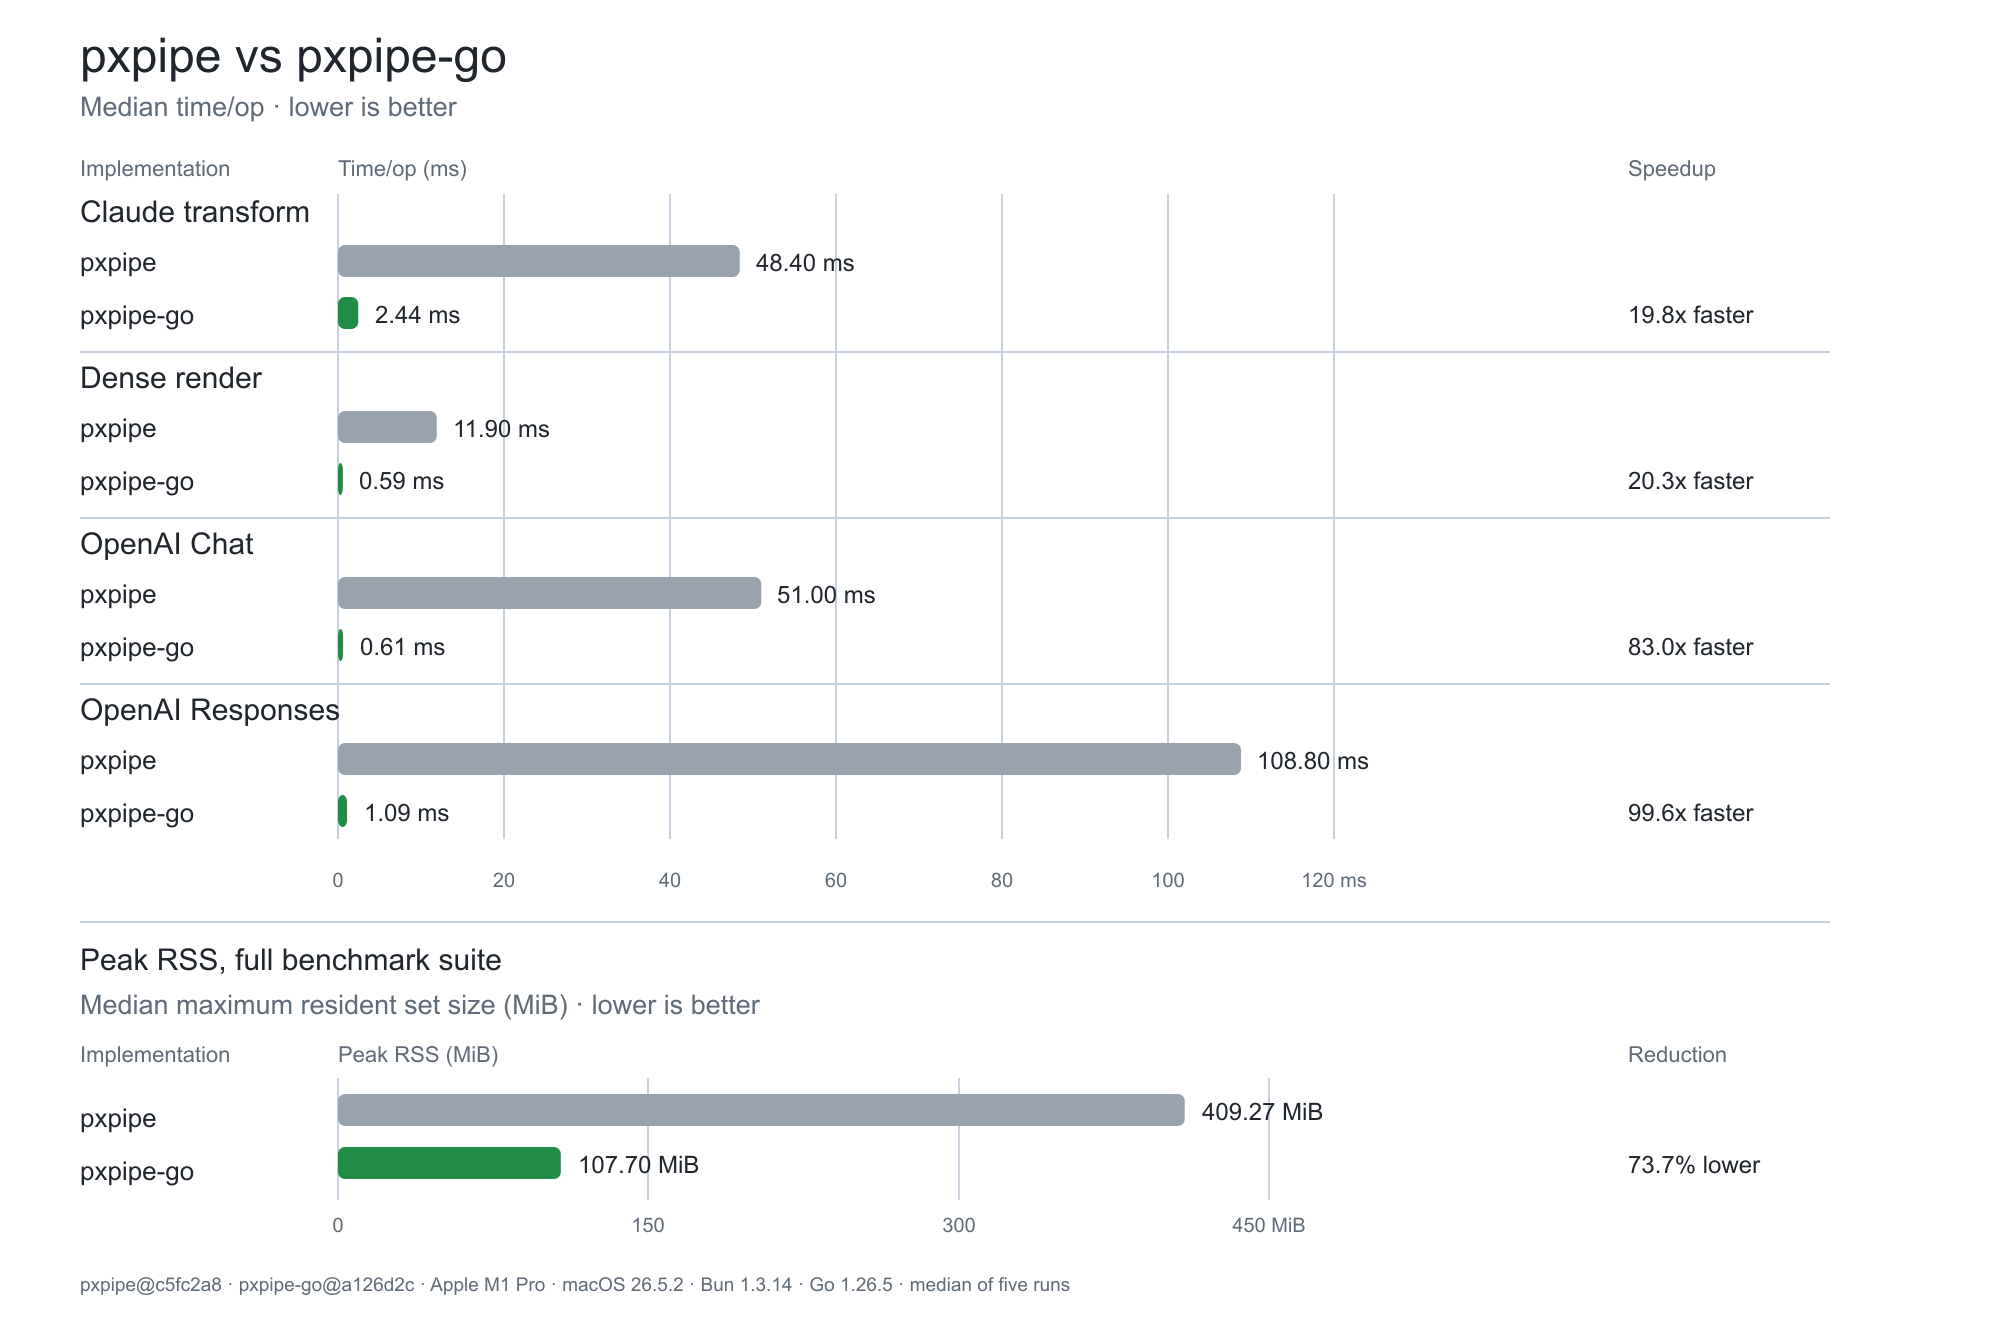
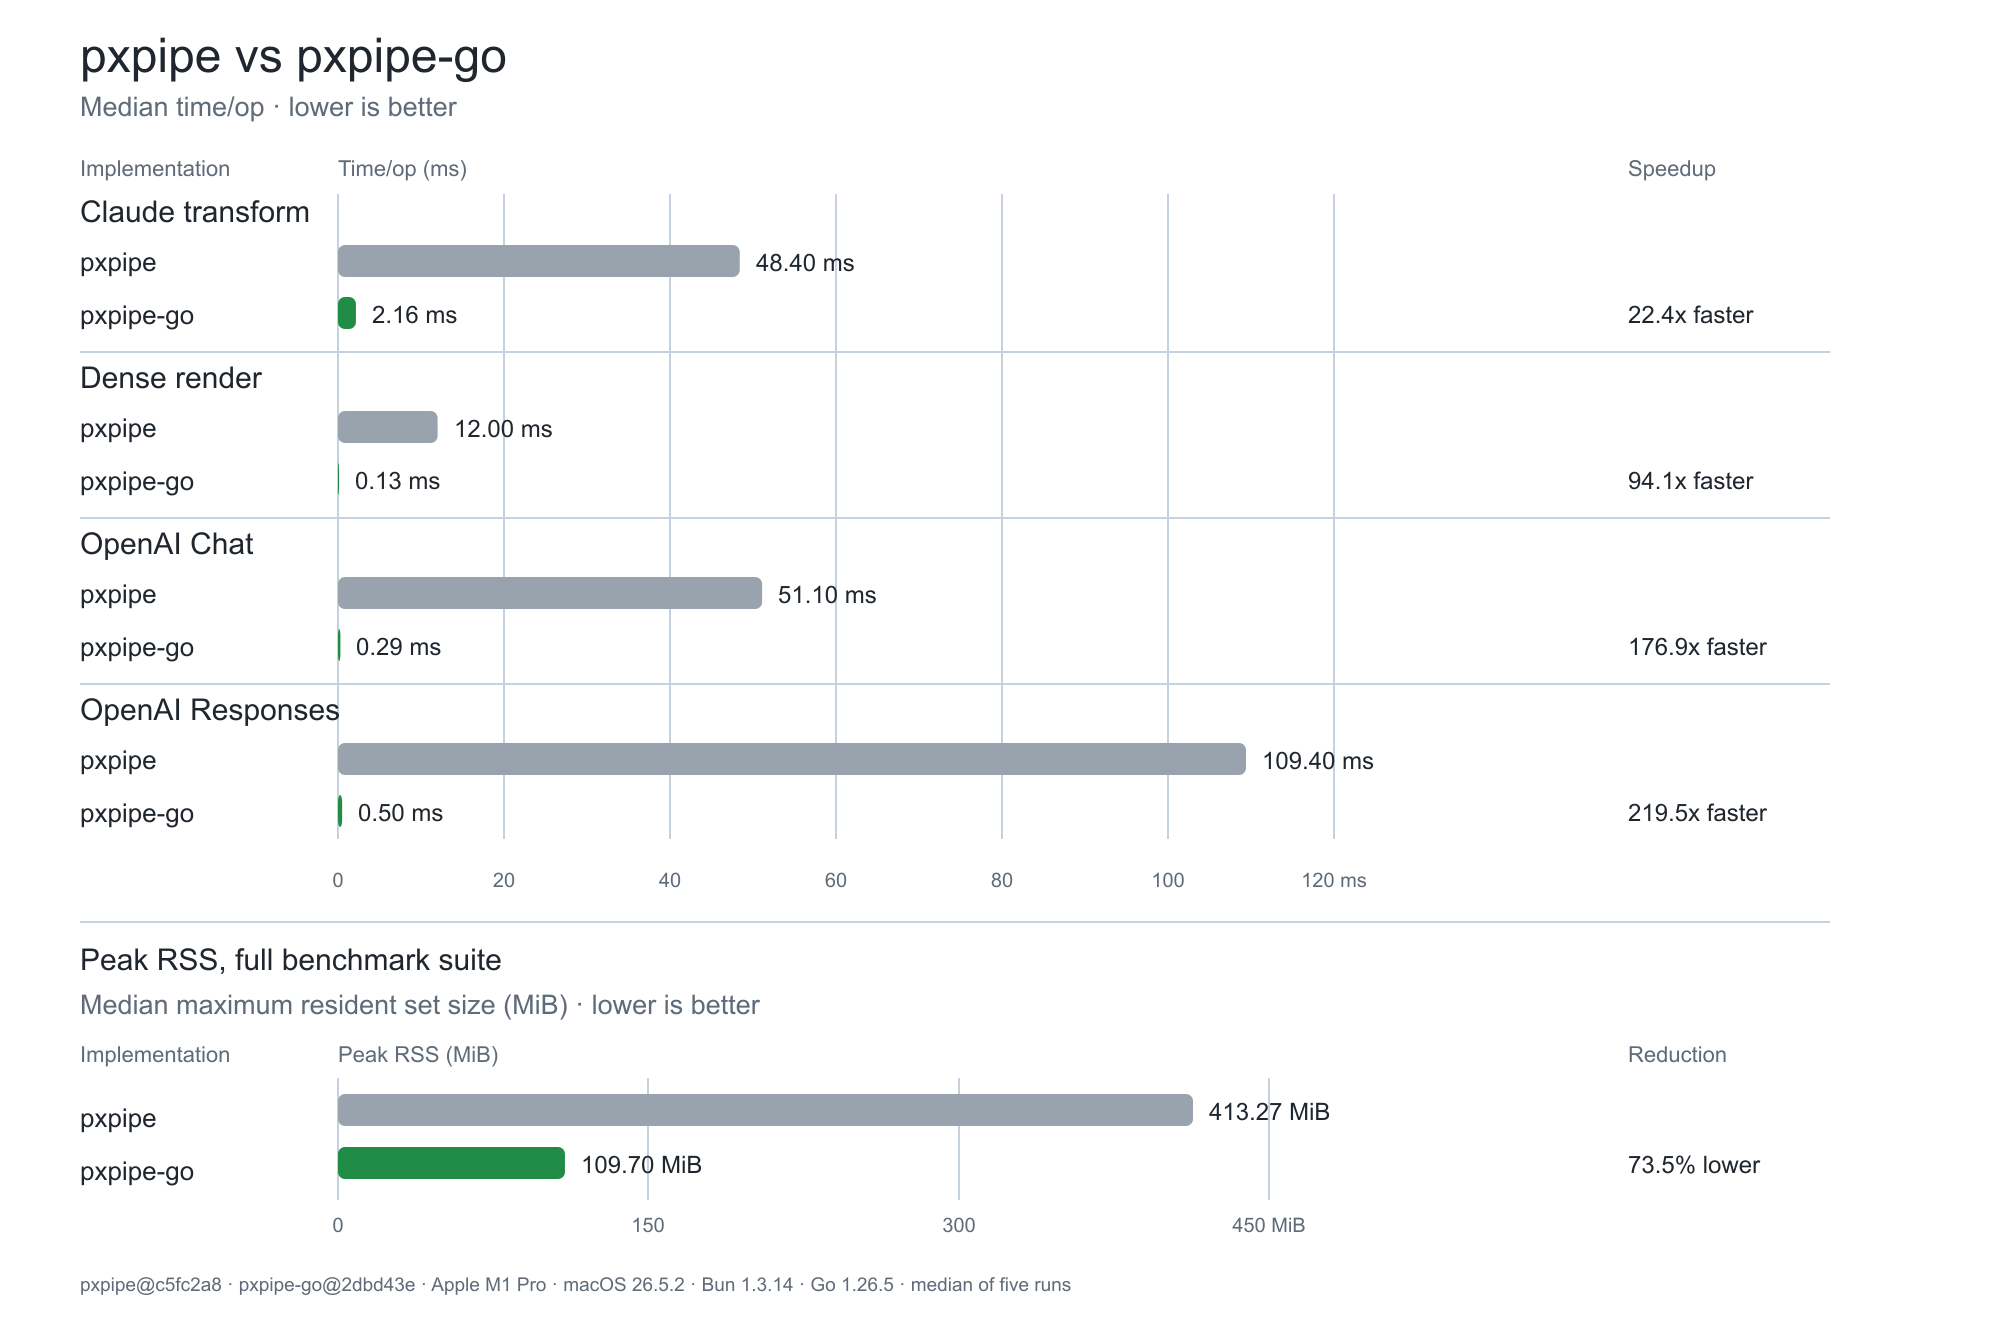
docs: update the latest performance measurements

diff --git a/README.md b/README.md
@@ -325,11 +325,11 @@ Rendered pages are cached by exact render inputs. The cache retains up to
 64 MiB by default. Set `PXPIPE_RENDER_CACHE_BYTES` to another byte limit, or
 set it to `0` to disable the cache.
 
-![pxpipe versus pxpipe-go benchmark: pxpipe-go is 19.8 to 99.6 times faster across four workloads and uses 73.7% less peak RSS](docs/benchmark-improvements.png)
+![pxpipe versus pxpipe-go benchmark: pxpipe-go is 22.4 to 219.5 times faster across four workloads and uses 73.5% less peak RSS](docs/benchmark-improvements.png)
 
 Measured natively on an Apple M1 Pro running macOS 26.5.2, with Bun 1.3.14
 and Go 1.26.5. Go used the machine-default `GOMAXPROCS=10` and no PGO profile.
-The comparison uses `pxpipe@c5fc2a8` and `pxpipe-go@a126d2c`
+The comparison uses `pxpipe@c5fc2a8` and `pxpipe-go@2dbd43e`
 (2026-08-11).
 
 Values are medians of five runs. Each pxpipe run performs two warmups and
@@ -339,27 +339,27 @@ CPU architecture, available cores, and request content.
 
 | benchmark | pxpipe time/op | pxpipe-go time/op | speedup |
 |---|---:|---:|---:|
-| TransformBigClaudeCode | 48.40 ms | 2.44 ms | 19.8× |
-| RenderDensePage | 11.90 ms | 0.59 ms | 20.3× |
-| TransformOpenAIChat | 51.00 ms | 0.61 ms | 83.0× |
-| TransformOpenAIResponses | 108.80 ms | 1.09 ms | 99.6× |
+| TransformBigClaudeCode | 48.40 ms | 2.16 ms | 22.4× |
+| RenderDensePage | 12.00 ms | 0.13 ms | 94.1× |
+| TransformOpenAIChat | 51.10 ms | 0.29 ms | 176.9× |
+| TransformOpenAIResponses | 109.40 ms | 0.50 ms | 219.5× |
 
 Peak RSS was measured over the full four-benchmark suite in a fresh process
 for each run:
 
 | implementation | median peak RSS | relative to pxpipe |
 |---|---:|---:|
-| pxpipe | 409.27 MiB | baseline |
-| pxpipe-go | 107.70 MiB | 73.7% lower |
+| pxpipe | 413.27 MiB | baseline |
+| pxpipe-go | 109.70 MiB | 73.5% lower |
 
 Go's `-benchmem` output reports the following allocation volume per operation:
 
 | benchmark | B/op | allocs/op |
 |---|---:|---:|
-| TransformBigClaudeCode | 1,656,626 | 2,497 |
-| RenderDensePage | 2,592 | 25 |
-| TransformOpenAIChat | 716,912 | 1,073 |
-| TransformOpenAIResponses | 1,188,472 | 1,329 |
+| TransformBigClaudeCode | 1,656,739 | 2,497 |
+| RenderDensePage | 2,736 | 25 |
+| TransformOpenAIChat | 716,944 | 1,073 |
+| TransformOpenAIResponses | 1,188,393 | 1,327 |
 
 Raw GC counts are not compared because V8 and Go use different collectors and
 event semantics. Peak RSS is the cross-runtime memory metric; `B/op` and
